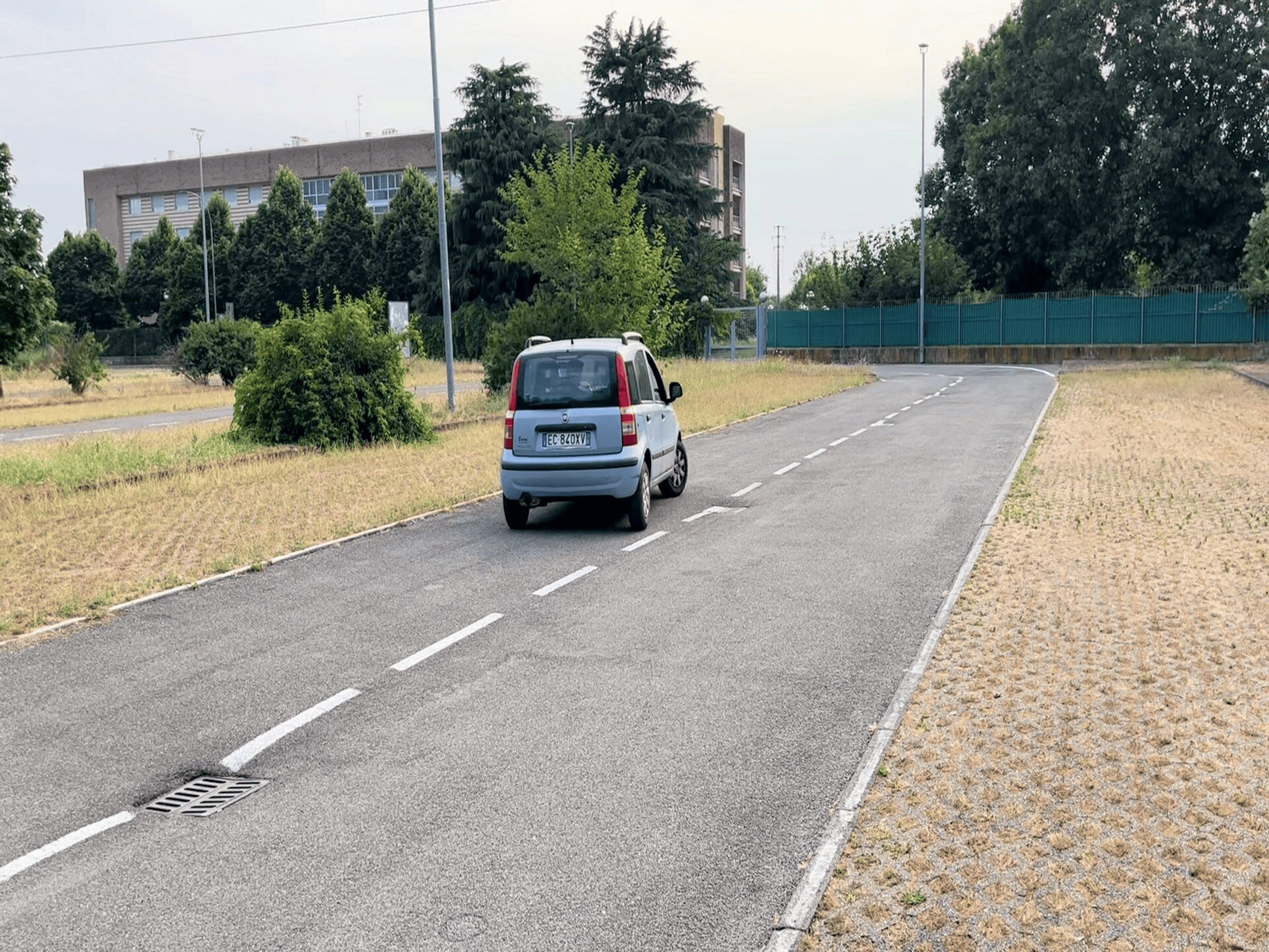
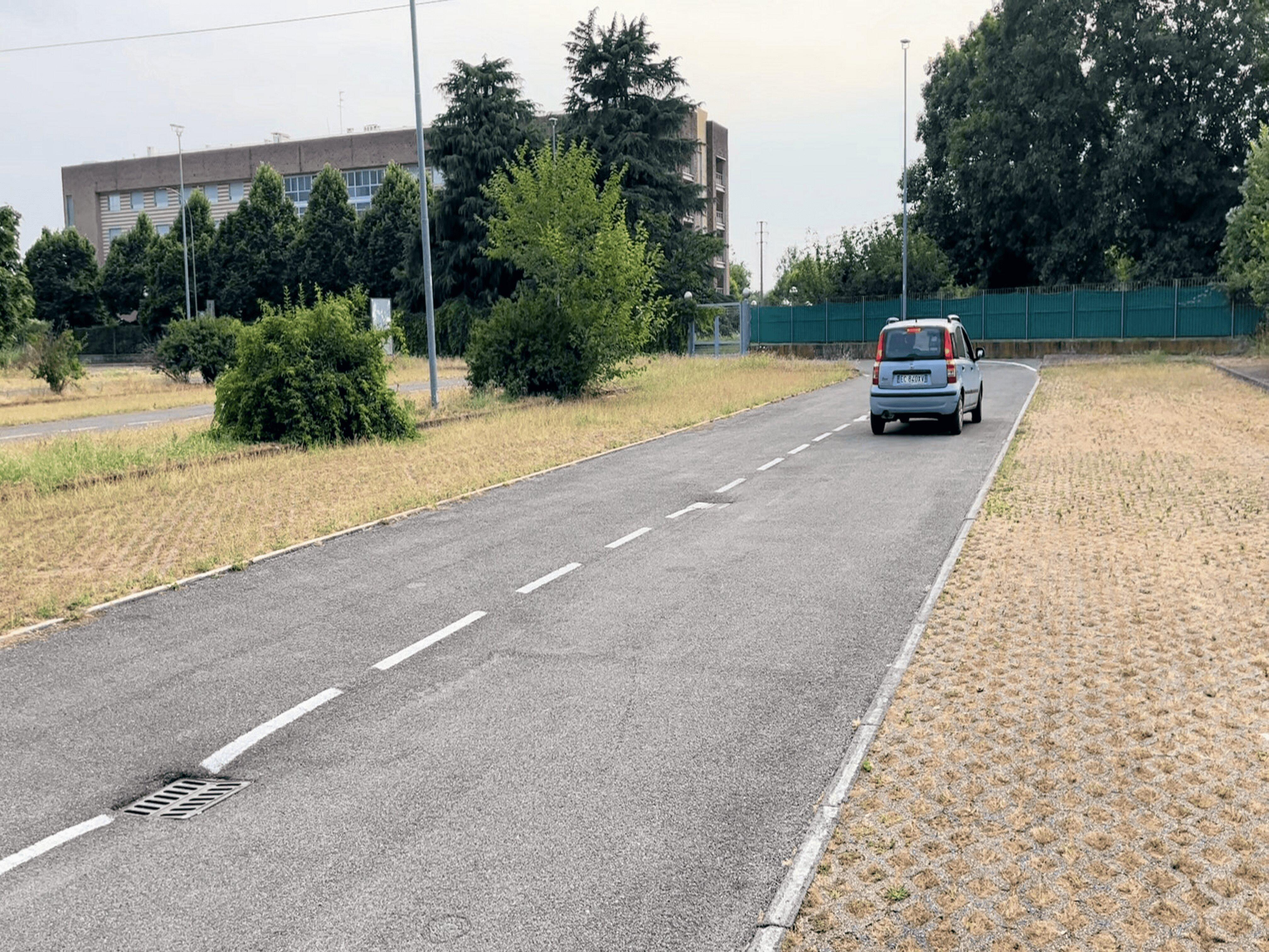
Last fixes

diff --git a/matlab/functions/plotFeaturesOnImage_p2.m b/matlab/functions/plotFeaturesOnImage_p2.m
@@ -26,6 +26,7 @@ function plotFeaturesOnImage_p2(imgPath, p, q, m, cameraIntrinsics, DLT, keepFig
     
     img = imread(imgPath);
     [img, ~] = imresize(img, cameraIntrinsics.ImageSize);
+    [img, ~] = undistortImage(img, cameraIntrinsics);
     imshow(rgb2gray(img))
     hold on
     dy = -25;

diff --git a/matlab/functions/plotFeaturesOnImage_p1.m b/matlab/functions/plotFeaturesOnImage_p1.m
@@ -20,6 +20,7 @@ function plotFeaturesOnImage_p1(imgPath, x, y, cameraIntrinsics, keepFigure)
 
     img = imread(imgPath);
     [img, ~] = imresize(img, cameraIntrinsics.ImageSize);
+    [img, ~] = undistortImage(img, cameraIntrinsics);
     imshow(im2gray(img))
     hold on
     dy = -20;

diff --git a/matlab/scripts/Point_2.m b/matlab/scripts/Point_2.m
@@ -8,7 +8,7 @@ COLORS = ['r', 'm', 'b'];
 MRK_SZ = 20;
 
 % Here you can choose whether:
-%   - to save the extracted features,
+%   - to save the extracted features,   
 %   - to use 'precooked' features,
 %   - to use pen or car frames,
 %   - to use DLT or not
